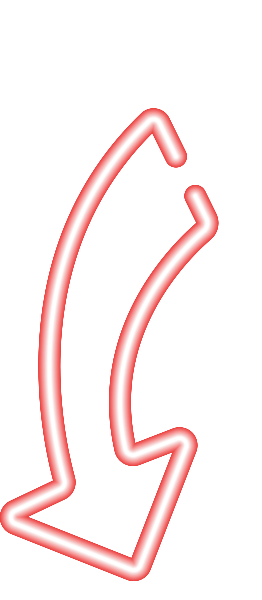
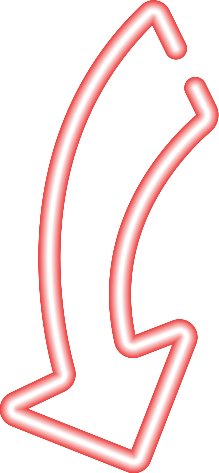
Resized open-arrow.

Changed region(s): [[0.0, 0.0, 1.0, 1.0]]

diff --git a/assets/css/main.css b/assets/css/main.css
@@ -266,33 +266,28 @@ body {
     width: 80%;
     margin: 237px auto;
     line-height: 1.282;
-    font-size: 1.3em; }
+    font-size: 1.2em; }
     @media only screen and (min-width: 768px) {
       .text .text-body {
         width: 50%;
-        font-size: 1.5em; } }
+        font-size: 1.7em; } }
 
 .continue {
-  margin: 450px auto;
+  margin: 500px auto;
   position: relative;
-  min-width: 210px; }
-  @media only screen and (min-width: 768px) {
-    .continue {
-      max-width: 310px; } }
+  width: 50%; }
 
 .open-arrow {
   position: absolute;
-  top: -51px;
-  left: 29px;
-  width: 18%; }
+  top: -37px;
+  left: -29%;
+  width: 55px; }
 
 .continue-container {
   position: absolute;
   top: -5px;
-  left: 87px; }
-  @media only screen and (min-width: 768px) {
-    .continue-container {
-      width: 70%; } }
+  left: 30%;
+  width: 200px; }
   .continue-container .continue-text {
     font-size: 20px; }
 
@@ -315,4 +310,4 @@ body {
     right: 20px;
     z-index: 5; }
 
[2 lines of base64/hex data omitted]

diff --git a/assets/css/main.min.css b/assets/css/main.min.css
@@ -1,2 +1,2 @@
-.content,body,html{background-color:#0f1131}.gear-container,.pipe,.primary{position:absolute}a,abbr,acronym,address,applet,article,aside,audio,b,big,blockquote,body,canvas,caption,center,cite,code,dd,del,details,dfn,div,dl,dt,em,embed,fieldset,figcaption,figure,footer,form,h1,h2,h3,h4,h5,h6,header,hgroup,html,i,iframe,img,ins,kbd,label,legend,li,mark,menu,nav,object,ol,output,p,pre,q,ruby,s,samp,section,small,span,strike,strong,sub,summary,sup,table,tbody,td,tfoot,th,thead,time,tr,tt,u,ul,var,video{margin:0;padding:0;border:0;font:inherit;vertical-align:baseline}article,aside,details,figcaption,figure,footer,header,hgroup,menu,nav,section{display:block}body{line-height:1;font-family:'Open Sans',sans-serif;color:#fff;overflow:hidden}ol,ul{list-style:none}blockquote,q{quotes:none}blockquote:after,blockquote:before,q:after,q:before{content:'';content:none}table{border-collapse:collapse;border-spacing:0}*{box-sizing:border-box;-webkit-box-sizinshoe-side2g:border-box}.clearfix:after{content:"";display:table;clear:both}body,html{width:100%;height:100%}html{-webkit-font-smoothing:antialiased;-moz-osx-font-smoothing:grayscale;-rendering:optimizelegibility}@keyframes wiggle_x_rotate{0%,100%,50%{transform:rotate(0)}25%,75%{transform:rotate(-1deg)}}span{text-decoration:uppercase;font-weight:700}.gear-container{z-index:4;animation-duration:1s;animation-iteration-count:infinite;animation-direction:alternate;animation-timing-function:ease-in-out}.gear-container #gear{float:left;color:#228DFF}.gear-container #gear2{float:left;margin-left:-40px}.gear-container #gear3{width:20%}.gear-container #gear4,.gear-container #gear5{width:15%}.browser{text-align:center}.parallax>use{animation:move-forever 3s linear infinite;transition-duration:1s}.parallax>use:nth-child(1){animation-delay:-2s}.parallax>use:nth-child(2){animation-delay:-3s;animation-duration:1.5s}.parallax>use:nth-child(3){animation-delay:-4s;animation-duration:2s}.parallax>use:nth-child(4){animation-delay:-4s;animation-duration:2.5s}.parallax_slower>use{animation:move-forever 3.5s linear infinite;transition-duration:1s}.parallax_slower>use:nth-child(1){animation-delay:-2s}.parallax_slower>use:nth-child(2){animation-delay:-3s;animation-duration:5s}.parallax_slower>use:nth-child(3){animation-delay:-4s;animation-duration:3s}.parallax_slower>use:nth-child(4){animation-delay:-4s;animation-duration:4s}@keyframes move-forever{0%{transform:translate(-90px,0)}100%{transform:translate(85px,0)}}.waves-container{display:block;width:100%;height:250px;margin:0;opacity:.45}.content{min-height:70vh;margin:-.1em 0 0;padding:1em;opacity:.45}@media (max-width:50em){.editorial{height:17vw}}.spin-button-container{position:absolute;width:275px;top:60%;right:10%;z-index:4}.container,.primary,.primary .main-logo-container .logo{width:100%;overflow:hidden}.spin-button-container .directions{text-align:right;padding-left:85px}.container{height:100%;background:url(../img/redGears_Layout.png) no-repeat #0f1131;background-size:cover}.pipe{bottom:0;left:0}.pipe .pipe-smoke{margin-bottom:-44px;margin-left:15px}.primary{height:auto;background-color:#0f1131;z-index:31;-webkit-transition:all 2.5s cubic-bezier(.17,.67,1,1.23);-moz-transition:all 2.5s cubic-bezier(.17,.67,1,1.23);transition:all 2.5s cubic-bezier(.17,.67,1,1.23);-webkit-clip-path:polygon(0 0,100% 0,100% 79%,0 100%);clip-path:polygon(0 0,100% 0,100% 79%,0 100%)}.primary .main-logo-container video{position:fixed;top:50%;left:50%;min-width:100%;min-height:100%;width:auto;height:auto;z-index:-100;transform:translate(-50%,-50%)}.primary .main-logo-container .sponsorship{position:absolute;right:36px;bottom:200px;transform:rotate(-7deg);color:#fff;font-size:1.2em}.primary #open-container{position:absolute;bottom:100px;left:36px;width:550px;margin:auto}.primary #open-container .open{float:left;width:30%;height:30%;text-decoration:none;-webkit-transition:all 1.5s;-moz-transition:all 1.5s;transition:all 1.5s}.secondary,.text{position:absolute;width:100%}.primary #open-container .open:hover{background-color:#ef3c3a;box-shadow:inset 0 0 50px #fff,inset 20px 0 80px #f0f,inset -20px 0 80px #0ff,inset 20px 0 300px #f0f,inset -20px 0 300px #0ff,0 0 50px #fff,-10px 0 80px #f0f,10px 0 80px #0ff}.move-up{transform:translateY(-210%)}.secondary{height:100%;background-color:rgba(15,17,49,.7);z-index:30;-webkit-transition:all 2.5s cubic-bezier(.17,.67,1,1.23);-moz-transition:all 2.5s cubic-bezier(.17,.67,1,1.23);transition:all 2.5s cubic-bezier(.17,.67,1,1.23)}.text{height:250px;z-index:10}.text .text-body{width:80%;margin:237px auto;line-height:1.282;font-size:1.3em}.continue{margin:450px auto;position:relative;min-width:210px}@media only screen and (min-width:768px){.text .text-body{width:50%;font-size:1.5em}.continue{max-width:310px}}.open-arrow{position:absolute;top:-51px;left:29px;width:18%}.continue-container{position:absolute;top:-5px;left:87px}@media only screen and (min-width:768px){.continue-container{width:70%}}.continue-container .continue-text{font-size:20px}.continue-button{width:80%}@-webkit-keyframes neon1{from{text-shadow:0 0 10px #fff,0 0 20px #fff,0 0 30px #fff,0 0 40px #F17,0 0 70px #F17,0 0 80px #F17,0 0 100px #F17,0 0 150px #F17}to{text-shadow:0 0 5px #fff,0 0 10px #fff,0 0 15px #fff,0 0 20px #F17,0 0 35px #F17,0 0 40px #F17,0 0 50px #F17,0 0 75px #F17}}.sectionTwo{position:absolute;z-index:100;transform:translateY(100%)}.sectionTwo .pull-reveal{position:absolute;bottom:0;right:20px;z-index:5}
[1 lines of base64/hex data omitted]
+.content,body,html{background-color:#0f1131}.gear-container,.pipe,.primary{position:absolute}a,abbr,acronym,address,applet,article,aside,audio,b,big,blockquote,body,canvas,caption,center,cite,code,dd,del,details,dfn,div,dl,dt,em,embed,fieldset,figcaption,figure,footer,form,h1,h2,h3,h4,h5,h6,header,hgroup,html,i,iframe,img,ins,kbd,label,legend,li,mark,menu,nav,object,ol,output,p,pre,q,ruby,s,samp,section,small,span,strike,strong,sub,summary,sup,table,tbody,td,tfoot,th,thead,time,tr,tt,u,ul,var,video{margin:0;padding:0;border:0;font:inherit;vertical-align:baseline}article,aside,details,figcaption,figure,footer,header,hgroup,menu,nav,section{display:block}body{line-height:1;font-family:'Open Sans',sans-serif;color:#fff;overflow:hidden}ol,ul{list-style:none}blockquote,q{quotes:none}blockquote:after,blockquote:before,q:after,q:before{content:'';content:none}table{border-collapse:collapse;border-spacing:0}*{box-sizing:border-box;-webkit-box-sizinshoe-side2g:border-box}.clearfix:after{content:"";display:table;clear:both}body,html{width:100%;height:100%}html{-webkit-font-smoothing:antialiased;-moz-osx-font-smoothing:grayscale;-rendering:optimizelegibility}@keyframes wiggle_x_rotate{0%,100%,50%{transform:rotate(0)}25%,75%{transform:rotate(-1deg)}}span{text-decoration:uppercase;font-weight:700}.gear-container{z-index:4;animation-duration:1s;animation-iteration-count:infinite;animation-direction:alternate;animation-timing-function:ease-in-out}.gear-container #gear{float:left;color:#228DFF}.gear-container #gear2{float:left;margin-left:-40px}.gear-container #gear3{width:20%}.gear-container #gear4,.gear-container #gear5{width:15%}.browser{text-align:center}.parallax>use{animation:move-forever 3s linear infinite;transition-duration:1s}.parallax>use:nth-child(1){animation-delay:-2s}.parallax>use:nth-child(2){animation-delay:-3s;animation-duration:1.5s}.parallax>use:nth-child(3){animation-delay:-4s;animation-duration:2s}.parallax>use:nth-child(4){animation-delay:-4s;animation-duration:2.5s}.parallax_slower>use{animation:move-forever 3.5s linear infinite;transition-duration:1s}.parallax_slower>use:nth-child(1){animation-delay:-2s}.parallax_slower>use:nth-child(2){animation-delay:-3s;animation-duration:5s}.parallax_slower>use:nth-child(3){animation-delay:-4s;animation-duration:3s}.parallax_slower>use:nth-child(4){animation-delay:-4s;animation-duration:4s}@keyframes move-forever{0%{transform:translate(-90px,0)}100%{transform:translate(85px,0)}}.waves-container{display:block;width:100%;height:250px;margin:0;opacity:.45}.content{min-height:70vh;margin:-.1em 0 0;padding:1em;opacity:.45}@media (max-width:50em){.editorial{height:17vw}}.spin-button-container{position:absolute;width:275px;top:60%;right:10%;z-index:4}.container,.primary,.primary .main-logo-container .logo{width:100%;overflow:hidden}.spin-button-container .directions{text-align:right;padding-left:85px}.container{height:100%;background:url(../img/redGears_Layout.png) no-repeat #0f1131;background-size:cover}.pipe{bottom:0;left:0}.pipe .pipe-smoke{margin-bottom:-44px;margin-left:15px}.primary{height:auto;background-color:#0f1131;z-index:31;-webkit-transition:all 2.5s cubic-bezier(.17,.67,1,1.23);-moz-transition:all 2.5s cubic-bezier(.17,.67,1,1.23);transition:all 2.5s cubic-bezier(.17,.67,1,1.23);-webkit-clip-path:polygon(0 0,100% 0,100% 79%,0 100%);clip-path:polygon(0 0,100% 0,100% 79%,0 100%)}.primary .main-logo-container video{position:fixed;top:50%;left:50%;min-width:100%;min-height:100%;width:auto;height:auto;z-index:-100;transform:translate(-50%,-50%)}.primary .main-logo-container .sponsorship{position:absolute;right:36px;bottom:200px;transform:rotate(-7deg);color:#fff;font-size:1.2em}.primary #open-container{position:absolute;bottom:100px;left:36px;width:550px;margin:auto}.primary #open-container .open{float:left;width:30%;height:30%;text-decoration:none;-webkit-transition:all 1.5s;-moz-transition:all 1.5s;transition:all 1.5s}.secondary,.text{position:absolute;width:100%}.primary #open-container .open:hover{background-color:#ef3c3a;box-shadow:inset 0 0 50px #fff,inset 20px 0 80px #f0f,inset -20px 0 80px #0ff,inset 20px 0 300px #f0f,inset -20px 0 300px #0ff,0 0 50px #fff,-10px 0 80px #f0f,10px 0 80px #0ff}.move-up{transform:translateY(-210%)}.secondary{height:100%;background-color:rgba(15,17,49,.7);z-index:30;-webkit-transition:all 2.5s cubic-bezier(.17,.67,1,1.23);-moz-transition:all 2.5s cubic-bezier(.17,.67,1,1.23);transition:all 2.5s cubic-bezier(.17,.67,1,1.23)}.text{height:250px;z-index:10}.text .text-body{width:80%;margin:237px auto;line-height:1.282;font-size:1.2em}@media only screen and (min-width:768px){.text .text-body{width:50%;font-size:1.7em}}.continue{margin:500px auto;position:relative;width:50%}.open-arrow{position:absolute;top:-37px;left:-29%;width:55px}.continue-container{position:absolute;top:-5px;left:30%;width:200px}.continue-container .continue-text{font-size:20px}.continue-button{width:80%}@-webkit-keyframes neon1{from{text-shadow:0 0 10px #fff,0 0 20px #fff,0 0 30px #fff,0 0 40px #F17,0 0 70px #F17,0 0 80px #F17,0 0 100px #F17,0 0 150px #F17}to{text-shadow:0 0 5px #fff,0 0 10px #fff,0 0 15px #fff,0 0 20px #F17,0 0 35px #F17,0 0 40px #F17,0 0 50px #F17,0 0 75px #F17}}.sectionTwo{position:absolute;z-index:100;transform:translateY(100%)}.sectionTwo .pull-reveal{position:absolute;bottom:0;right:20px;z-index:5}
[1 lines of base64/hex data omitted]

diff --git a/assets/scss/pages/_sectionOneOverlay.scss b/assets/scss/pages/_sectionOneOverlay.scss
@@ -107,11 +107,11 @@
 		width: 80%;
 		margin: 237px auto;
 		line-height: 1.282;
-		font-size: 1.3em;
+		font-size: 1.2em;
 
 	 	@include bp-sm {
 	 		width: 50%;
-	 		font-size: 1.5em;
+	 		font-size: 1.7em;
 	 	}
 	}
 }
@@ -120,35 +120,27 @@
 //--------------------Continue into the machine---------------------------//
 
 .continue {
-	margin: 450px auto;
+	margin: 500px auto;
 	position: relative;
-	// border: 1px solid red;
-	min-width: 210px;
-
-	@include bp-sm {
-		max-width: 310px;
-	}
+	width: 50%;
 }
 
 .open-arrow {
 	position: absolute;
-	top: -51px;
-	left: 29px;
-	width: 18%;
-	// @include bp-sm {
-	//    width: 18%;
-	// }
+	top: -37px;
+	left: -29%;
+	width: 55px;
 }
 
 .continue-container {
 	position: absolute;
 	top: -5px;
-	left: 87px;
+	left: 30%;
+	width:200px;
 	
-
-	@include bp-sm {
-		width: 70%;
-	}
+	// @include bp-sm {
+	// 	width: 70%;
+	// }
 
 	.continue-text {
 		font-size: 20px;

diff --git a/index.html b/index.html
@@ -40,8 +40,8 @@
 		</div> <!-- end of .text -->
 
 		<div class="continue">
-			<img class="open-arrow" src="assets/img/open-arrow.png" alt="open-arrow">
 			<div class="continue-container">
+				<img class="open-arrow" src="assets/img/open-arrow.png" alt="open-arrow">
 				<img class="continue-button" src="assets/img/continue-button.png" alt="continue-button">
 				<p class="continue-text">into the machine</p>
 			</div>
